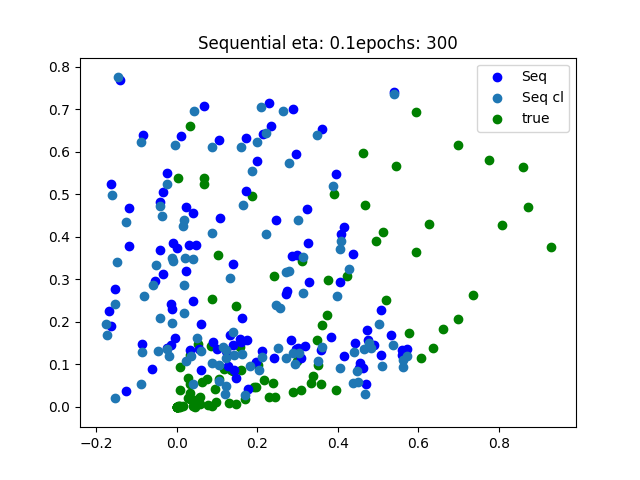
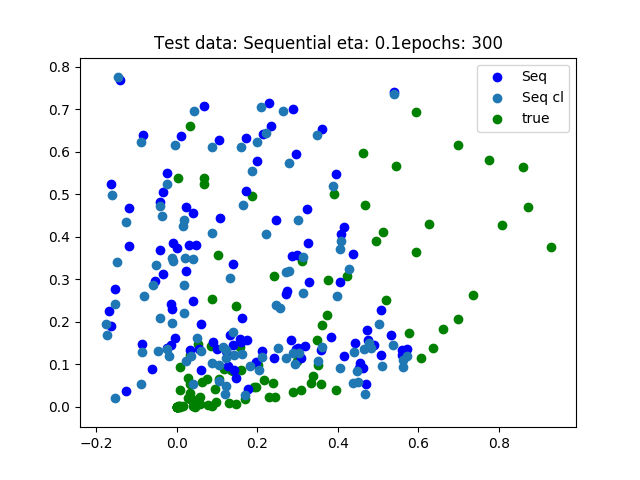
cl 2d

Changed region(s): [[0.25, 0.0625, 0.7812, 0.125]]

diff --git a/rbf_2d.py b/rbf_2d.py
@@ -158,7 +158,7 @@ def assignment1_ballist():
     #f_h_b = plt.scatter(f_hat_b[:,0], f_hat_b[:,1], c='r', label="Batch")
     f_h_s_cl = plt.scatter(f_test_s_cl[:,0],f_hat_s_cl[:,1], label="Seq cl")
     #f_h_b_cl = plt.scatter(f_hat_b_cl[:,0], f_hat_b_cl[:,1], label="Batch cl")
-    plt.title('Sequential' + ' eta: '+ str(eta) + "epochs: " + str(t))
+    plt.title('Test data: Sequential' + ' eta: '+ str(eta) + "epochs: " + str(t))
     plt.legend(handles=[f_h_s, f_h_s_cl, tr])
     fig.savefig('report/plots/2d/first_basic_both_CL_output_seq_test')
 
@@ -170,7 +170,7 @@ def assignment1_ballist():
     nds = plt.scatter(mu[:,0],mu[:,1], c='b', label="Nodes")
     nds_cl = plt.scatter(mu_cl[:,0],mu_cl[:,1], c='r', label="Nodes CL")
     plt.legend(handles=[train_data, nds, nds_cl])
-    plt.title("Training data and nodes, cl")
+    plt.title("Test data and nodes, cl")
     fig2.savefig('report/plots/2d/input_basic_both_cl_seq_test')
 
     plt.show()
